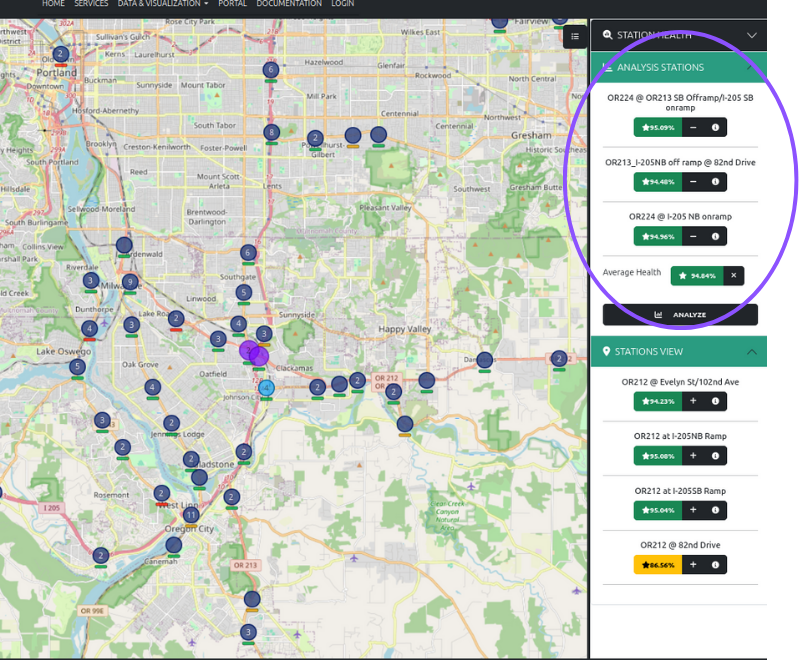
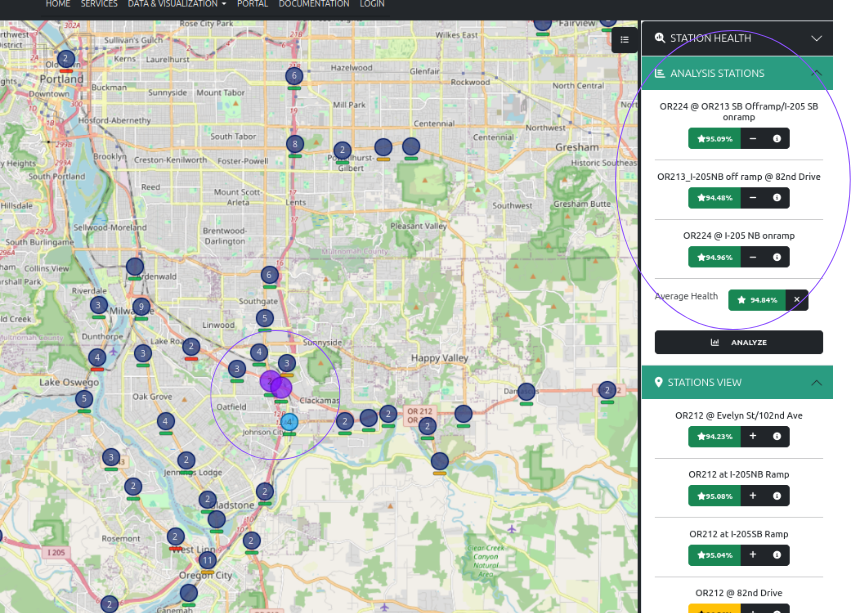
add metadata figs and complete metadata and station selection step

diff --git a/_documents/push-button.md b/_documents/push-button.md
@@ -7,9 +7,9 @@ The pedestrian estimated volumes from push button actuations is now available on
 The following sections will guide you through the different tools available on the [_Push Button Actuations_](https://bikeped.trec.pdx.edu/pushbutton/) page.  
 
 ### Step 1: Selecting your station(s) of interest
-There are two ways to select your station(s) of interest: 1) select by clicking on the different locations on the map, and 2) select by using the filtering options on the metadata table.
+There are two ways to select your station(s) of interest: A) select by clicking on the different locations on the map, and B) select by using the filtering options on the metadata table.
 
-__Selecting by using the map__  
+__A) Selecting by using the map__  
 The map viewing boundary is set at the state level. The number within each circle icon indicates the number of locations that are available within that area. As you zoom in, the circle icons will disaggregate into more circle icons as the location of the intersections become more accurate. Each time you select a station by clicking on a circle icon, the icon will change to a light blue color and a list of stations representing that icon will show up on the right sidebar under "Stations View" (Fig. 1).
 
 <figure class="align-left">
@@ -20,6 +20,23 @@ The map viewing boundary is set at the state level. The number within each circl
 From the "Stations View" sidebar, click on the "+" to add it to the "Analysis Stations" for futher analysis and visualizations (Fig. 2). The selected stations for further analysis will change the circle icons on the map from blue to purple. To unselect a station from the "Analysis Stations", click the "-" button located under the station name.
 
 <figure class="align-left">
-    <img src="{{ site.url }}{{ site.baseurl }}/assets/images/push-fig2.png" alt="">
+    <img src="{{ site.url }}{{ site.baseurl }}/assets/images/push-fig2.png" alt="" width="500">
     <figcaption>Fig. 2: Within the purple box on the map, the selected "Analysis Stations" are highlighted in purple and the selected "Stations View" are highlighted in light blue. The right sidebar shows the lists of the selected "Analysis Stations" and "Stations View"; note the "+" or "-" buttons under the station names. </figcaption>
 </figure>
+
+__B) Select by using the "Metadata" table filters__  
+The second way to select stations is to use the "Metadata" table filters. To get to the "Metadata" table, click on the "graph" icon in the lower left corner of the map (Fig. 3). Once you click on the "graph" icon, a bottom panel will pop up with three labeled tabs. 
+
+<figure class="align-left">
+    <img src="{{ site.url }}{{ site.baseurl }}/assets/images/push-fig3.png" alt="" width="500">
+    <figcaption>Fig. 3: The "graph" icon is located on the map in the lower left corner. Click on the "graph" icon to get to the data visualization tools and the metadata table. </figcaption>
+</figure>
+
+By selecting the "Metadata" tab, a metadata table for all the stations will be displayed along with the filter menu options on the left sidebar (Fig. 4).
+
+<figure class="align-left">
+    <img src="{{ site.url }}{{ site.baseurl }}/assets/images/push-fig4.png" alt="" width="500">
+    <figcaption>Fig. 4: The bottom panel pop up is selected to show the "Metadata" tab. The purple circles highlight the filter menu option along the left sidebar, the "+ add to analysis stations" button, and the search bar.</figcaption>
+</figure>
+
+The bottom panel can be expanded moving the mouse cursor to the upper edge of the panel and then clicking to drag the panel up or down. You can either use the search window located in the upper right of the metadata panel, or use the filter options on the left sidebar of the panel to find the stations of interest. To add stations from the metadata table to the "Analysis Station" selection, click on the "+ add to analysis stations" button located at along the top border of the panel. You will also notice additional options to display the selected stations on the map, examine the data availability, and to download the metadata table in a variety of formats.
